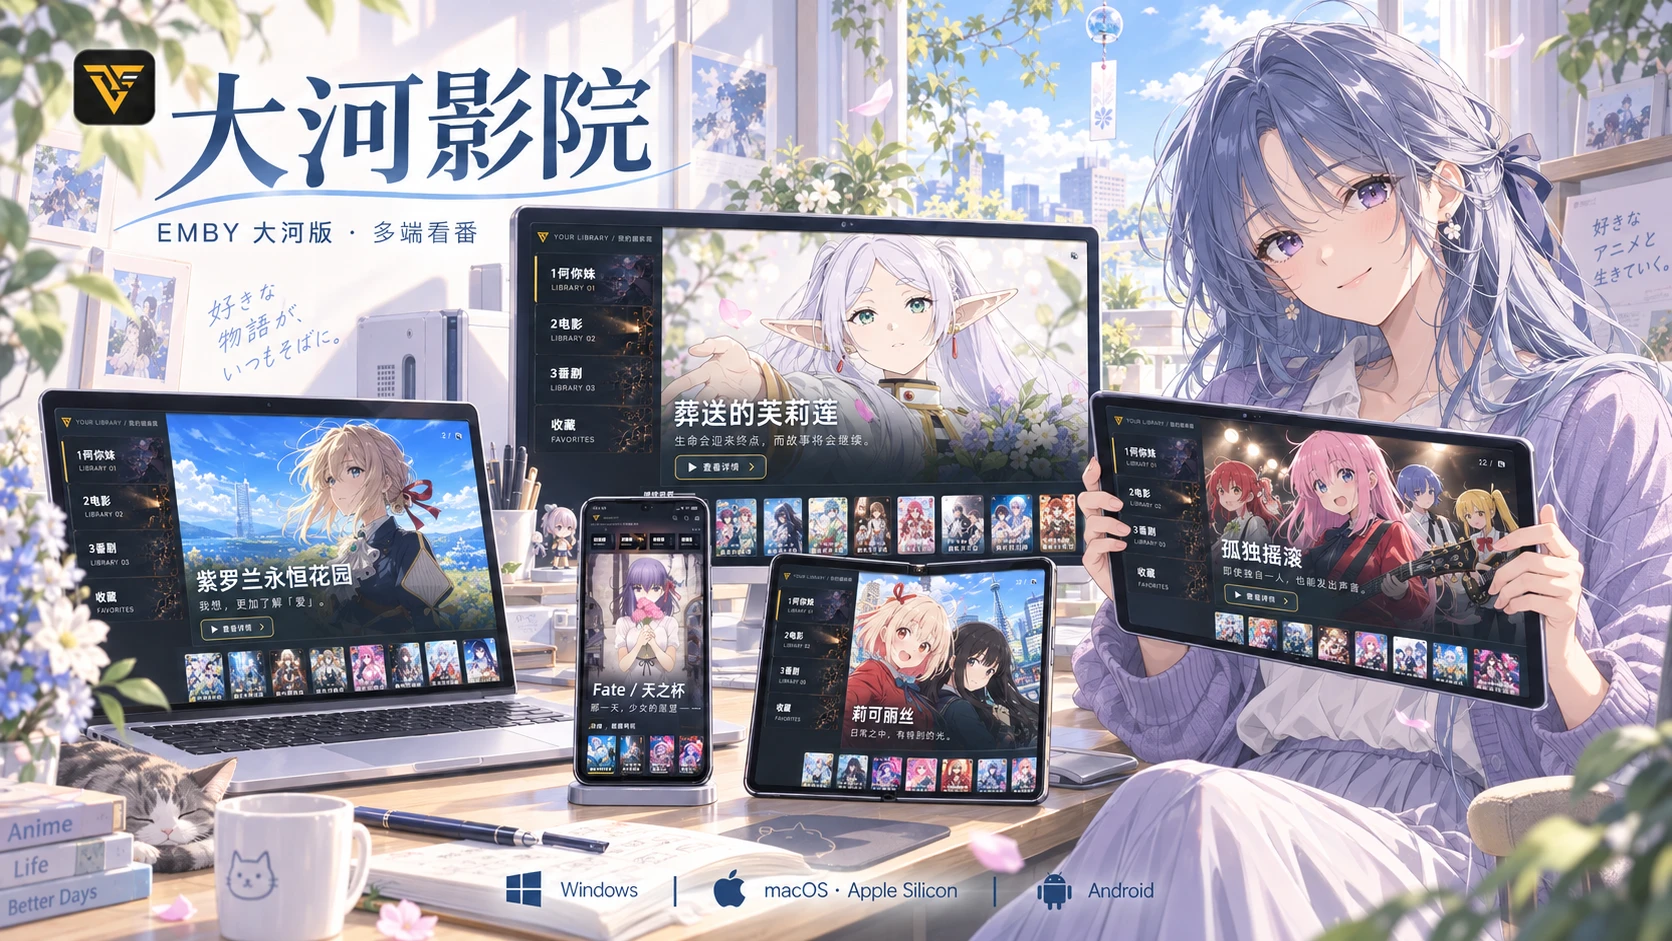
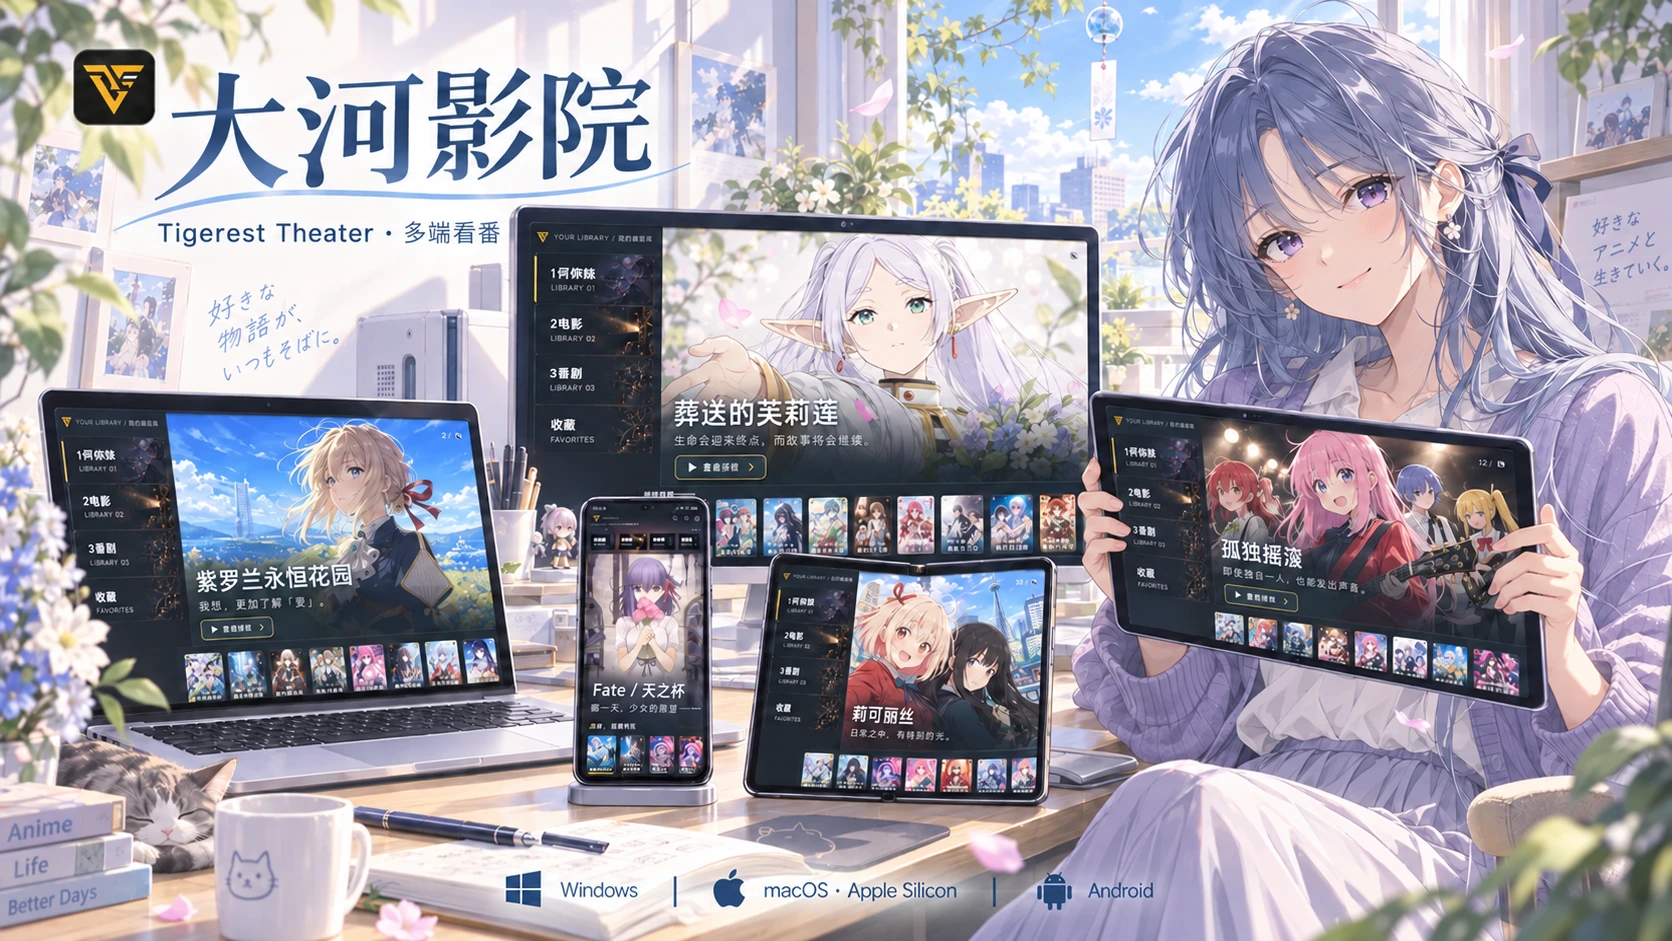
docs: update README and poster branding to Tigerest Theater

diff --git a/README.md b/README.md
@@ -1,6 +1,6 @@
-# Tigerest Theater / EMBY 大河版
+# Tigerest Theater
 
-<p align="center"><img src="screenshots/poster.webp" alt="大河影院 · EMBY 大河版宣传海报：电脑、平板、折叠屏与手机上的沉浸式首页"></p>
+<p align="center"><img src="screenshots/poster.webp" alt="大河影院 · Tigerest Theater 宣传海报：电脑、平板、折叠屏与手机上的沉浸式首页"></p>
 
 把 Emby／Jellyfin 媒体库、MPV 播放器、弹幕和作品讨论放在一起。支持 Windows、Apple Silicon Mac、iPad、Android 与 Apple TV，提供 MPV 播放、弹幕和对应平台的画质选项。
 
